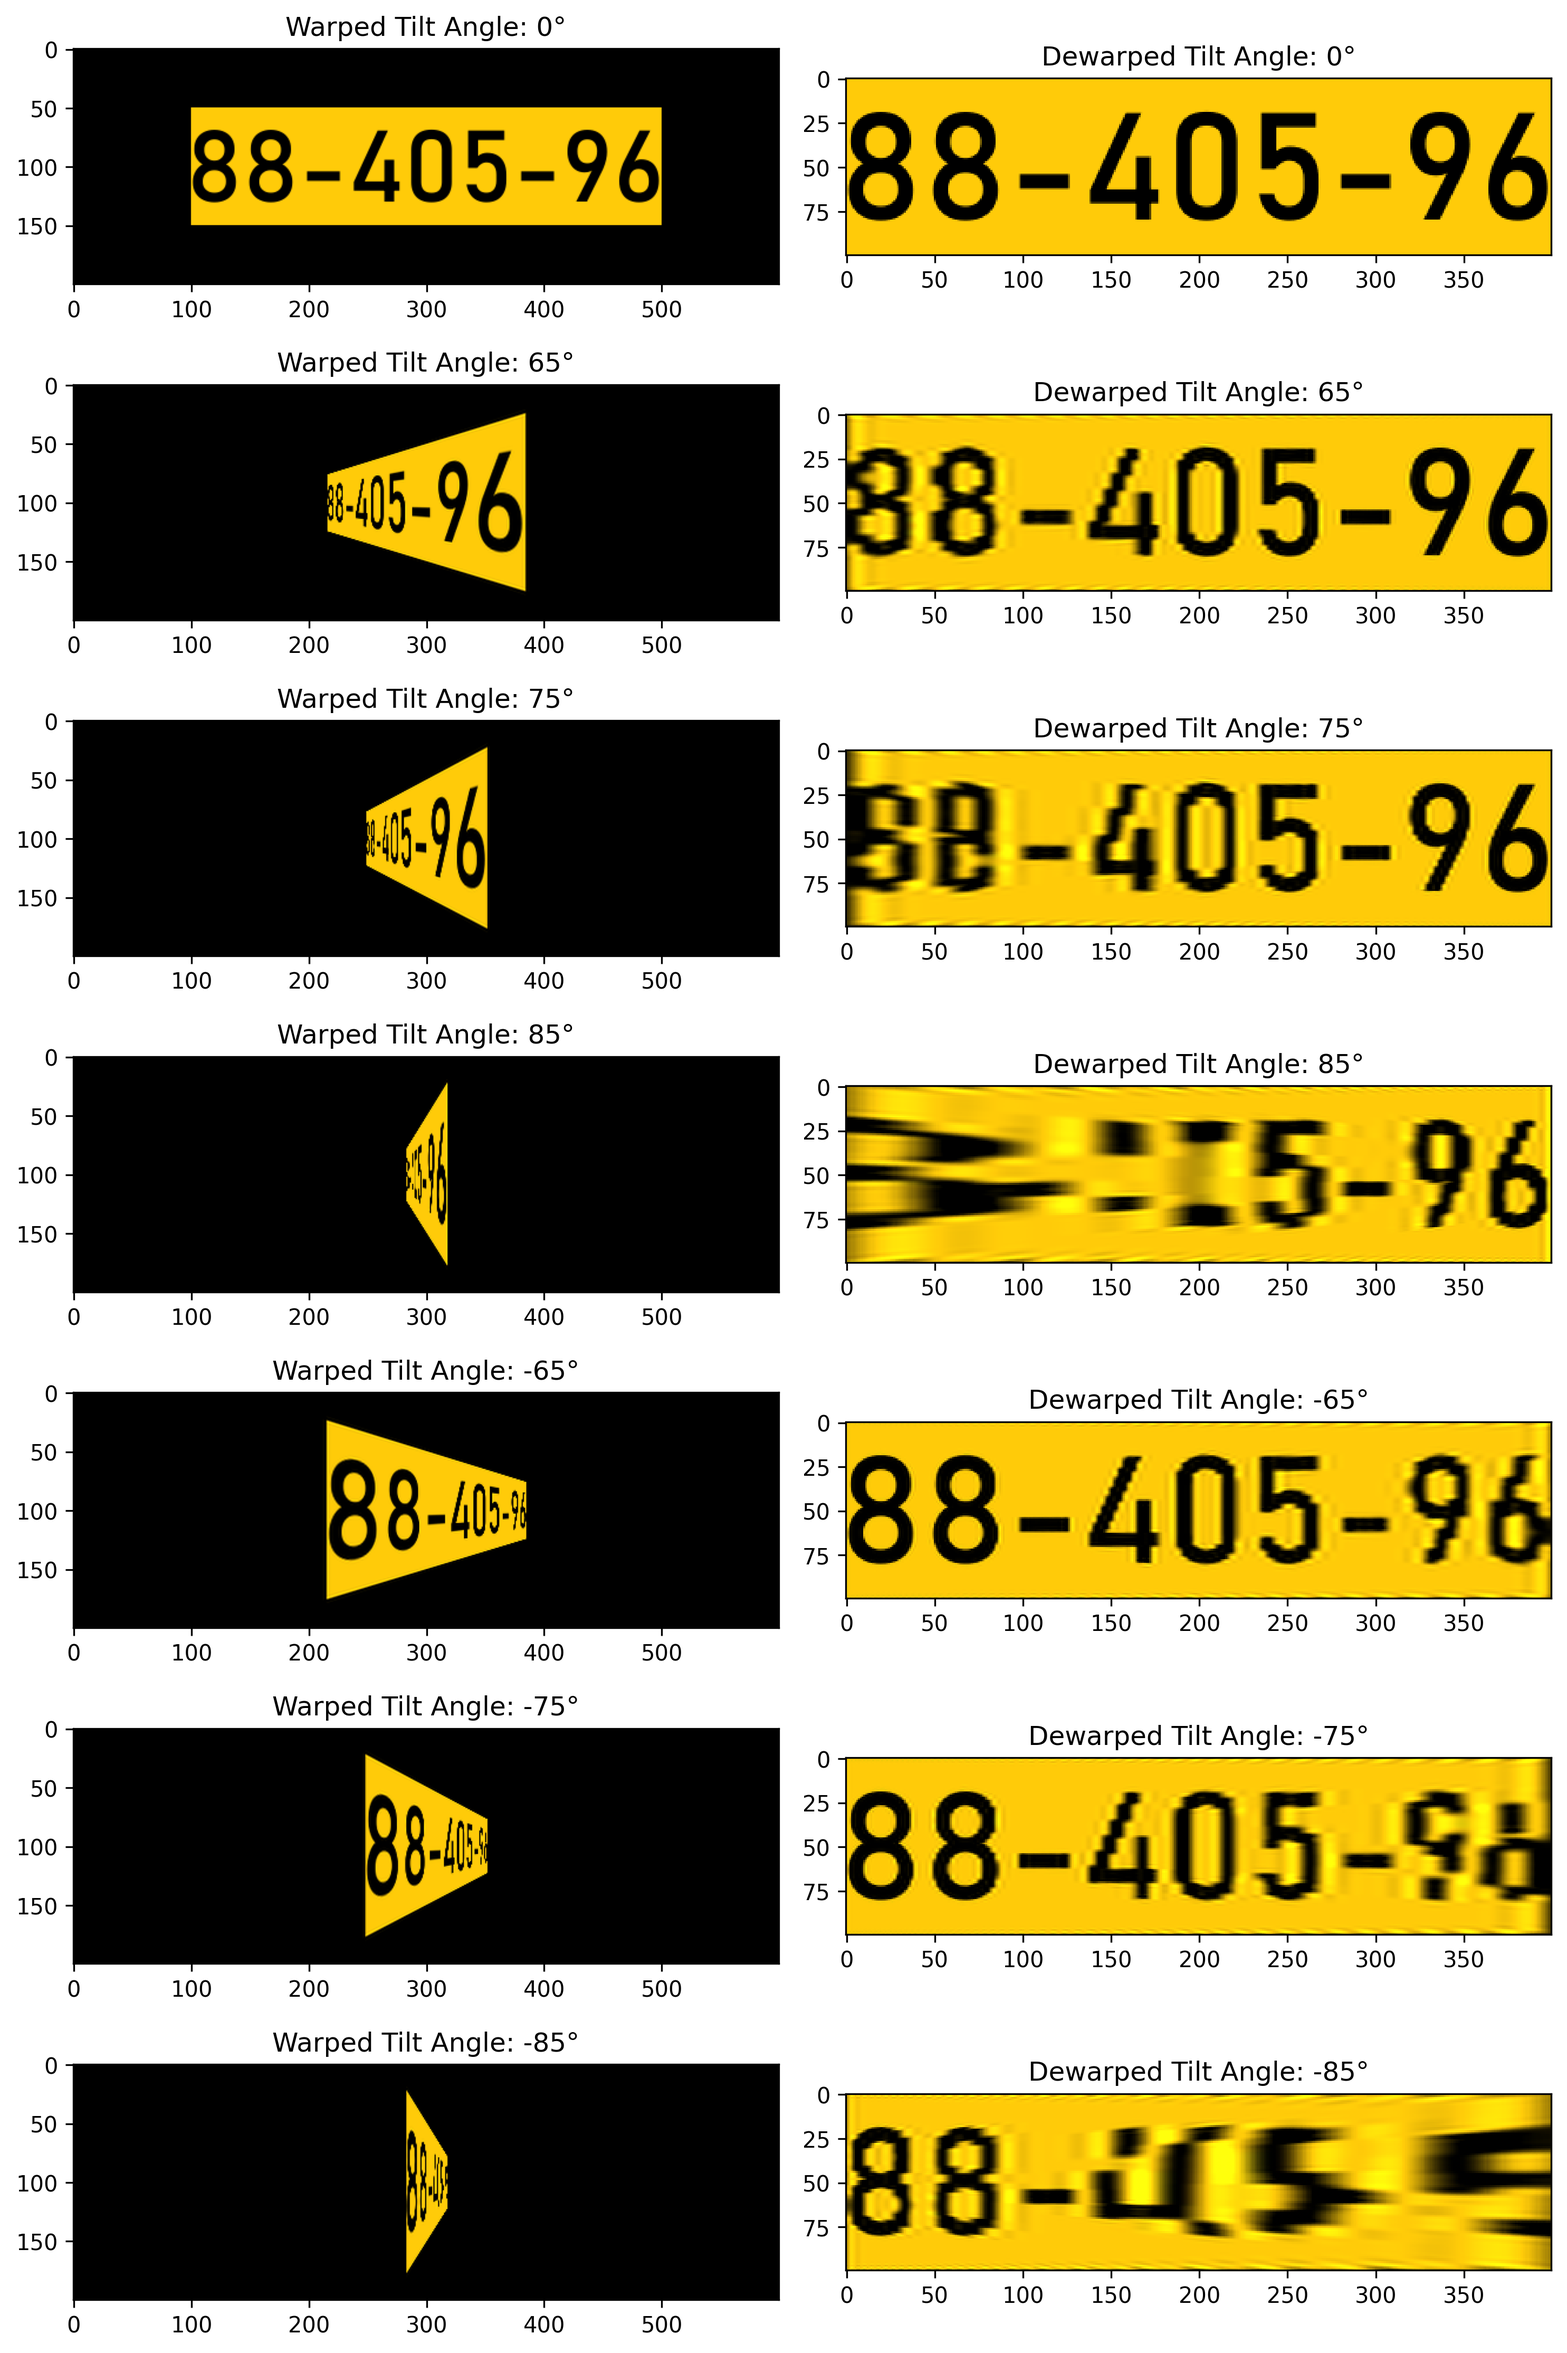
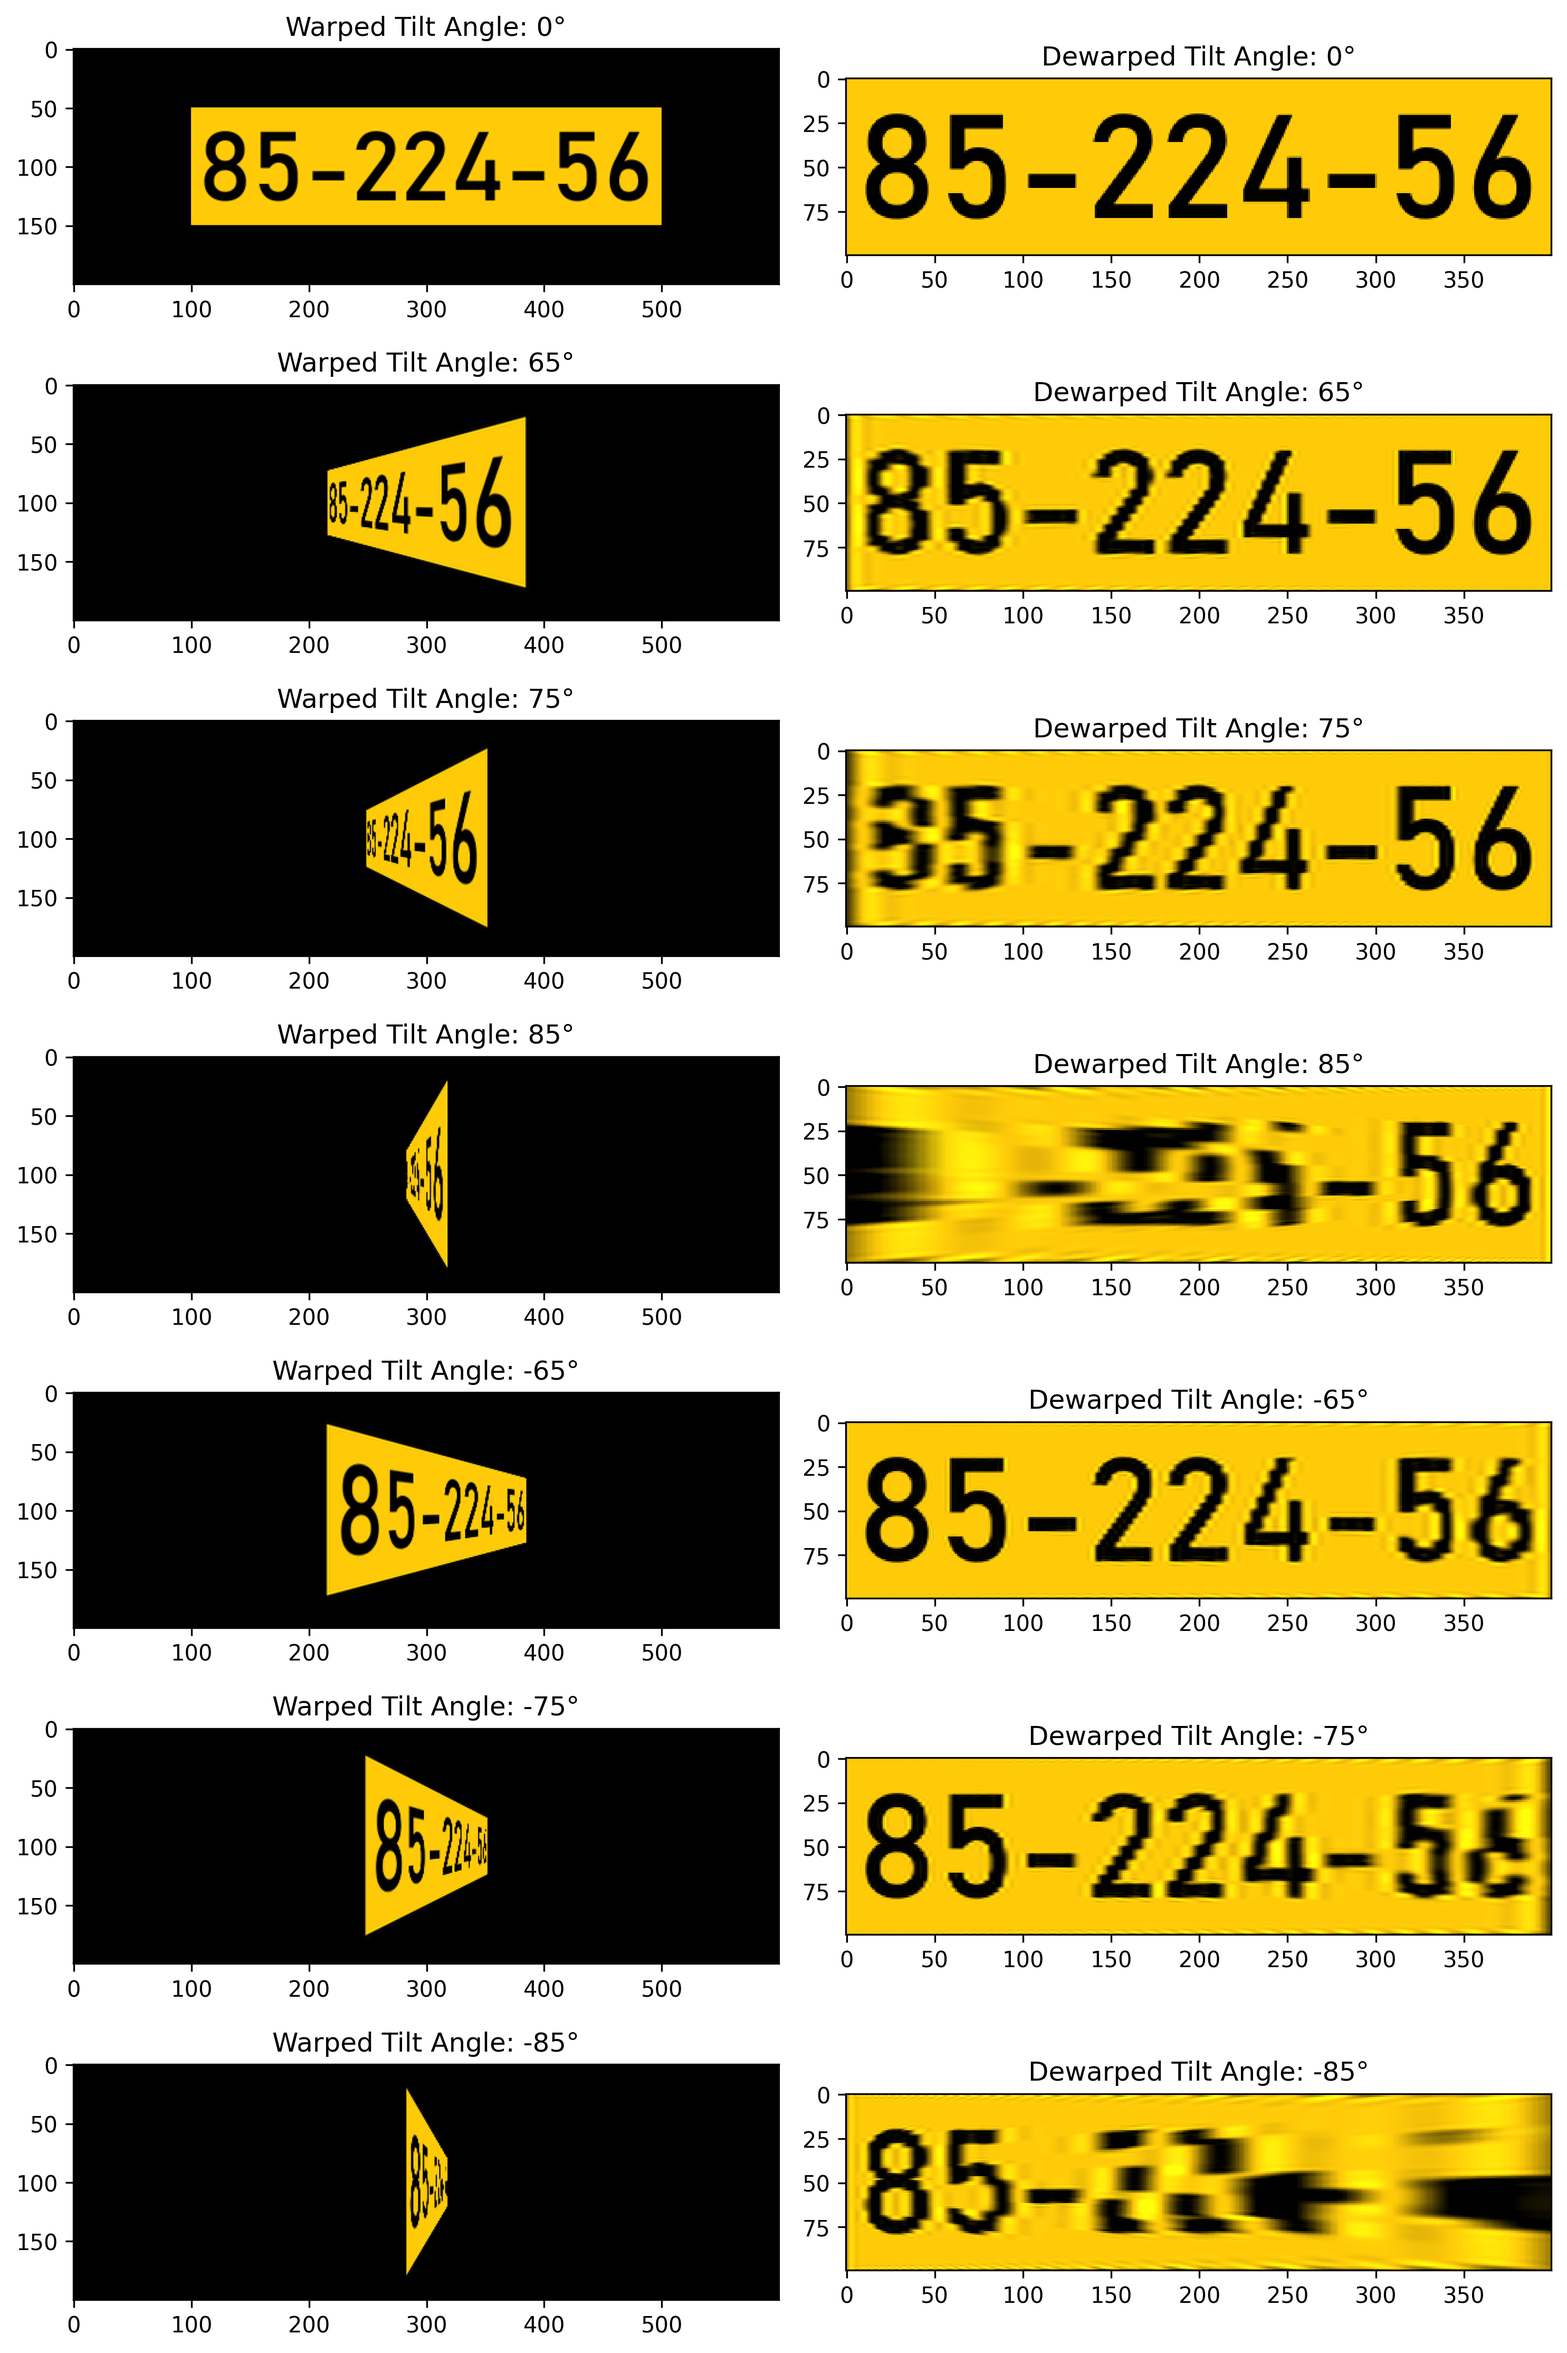
edited math expressions

diff --git a/perspective_transform.py b/perspective_transform.py
@@ -13,7 +13,7 @@ def create_license_plate():
     width, height = 400, 100
     background_color = (255, 203, 9)
     text_color = (0, 0, 0)
-    text_size = 85
+    text_size = 82
     
     # Create the image
     image = Image.new("RGB", (width, height), background_color)
@@ -59,21 +59,19 @@ def perspective_transform(image, corners, alpha):
    
     # Convert alpha to radians
     alpha_rad = math.radians(alpha) 
-
-    # Calculate the distance from the center to the top/bottom edge
-    z = w/2 * math.sin(alpha_rad) 
-
-    # Define the relationship between alpha and theta
-    theta_rad = 0.15 * math.exp(-0.05 * abs(alpha_rad))
  
     # Calculate the horizontal and vertical coordinates of the destination points
     x_left = corners[0][0] + w/2 * (1 - math.cos(alpha_rad)) 
     x_right = corners[0][0] + w/2 * (1 + math.cos(alpha_rad)) 
-    
-    y1 = corners[0][1] + z * math.tan(theta_rad)
-    y2 = corners[0][1] - z * math.tan(theta_rad)
-    y3 = corners[2][1] + z * math.tan(theta_rad)
-    y4 = corners[2][1] - z * math.tan(theta_rad) 
+
+
+    # Calculate the vertical coordinates of the destination points
+    factor = 0.05
+    k = factor * w * alpha_rad
+    y1 = corners[0][1] + k
+    y2 = corners[0][1] - k
+    y3 = corners[2][1] + k
+    y4 = corners[2][1] - k
 
     # Define the destination points
     dest_points = np.float32([
